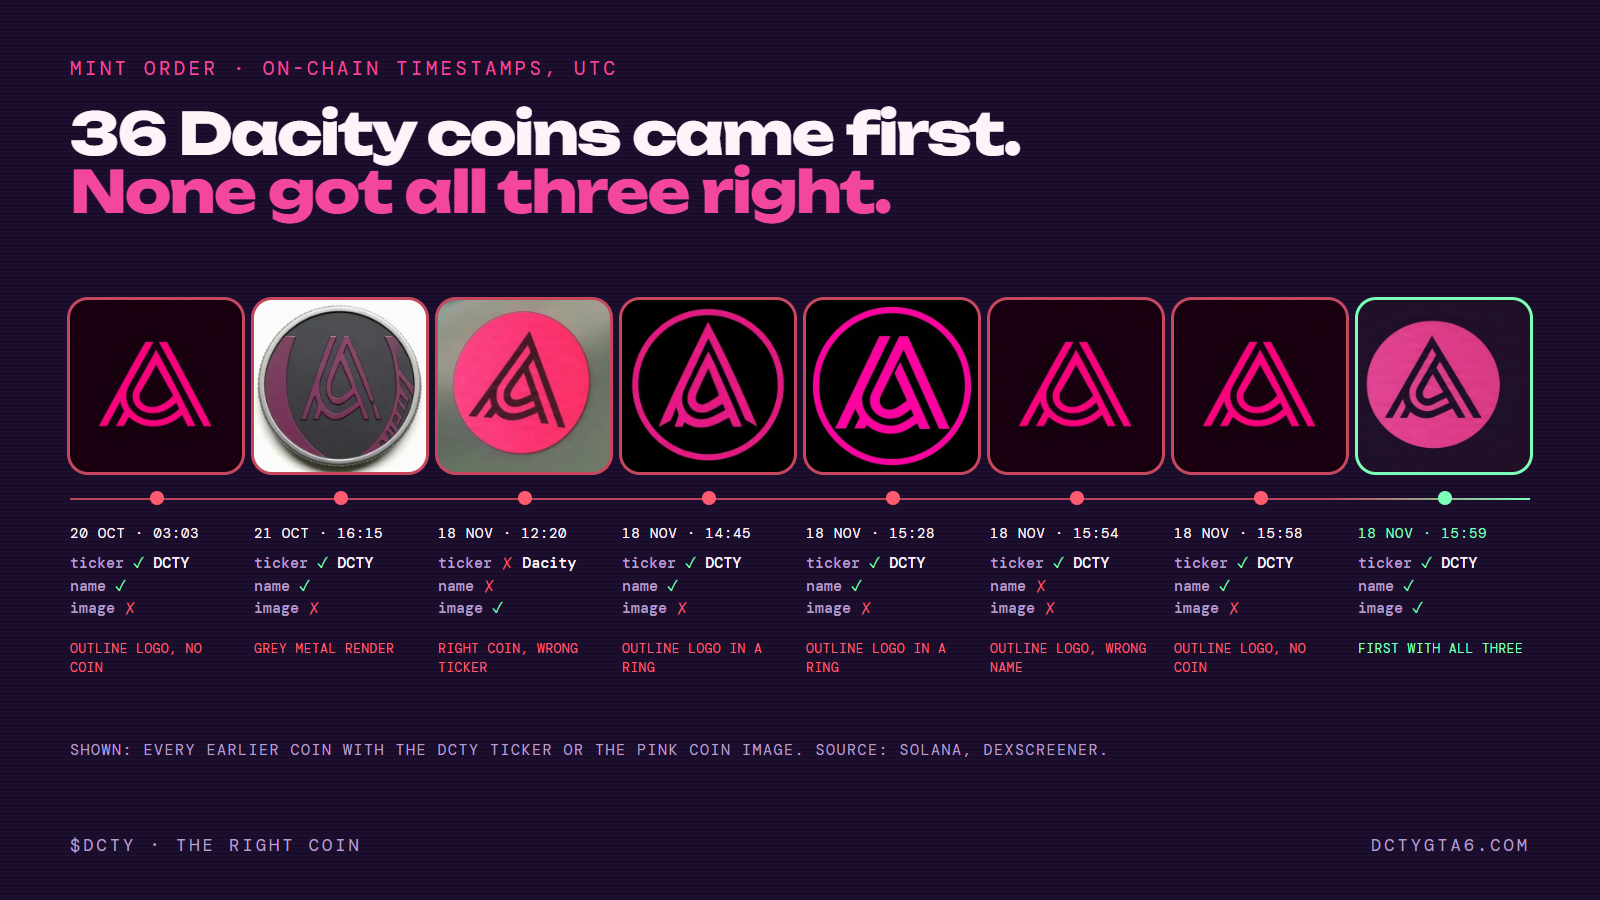
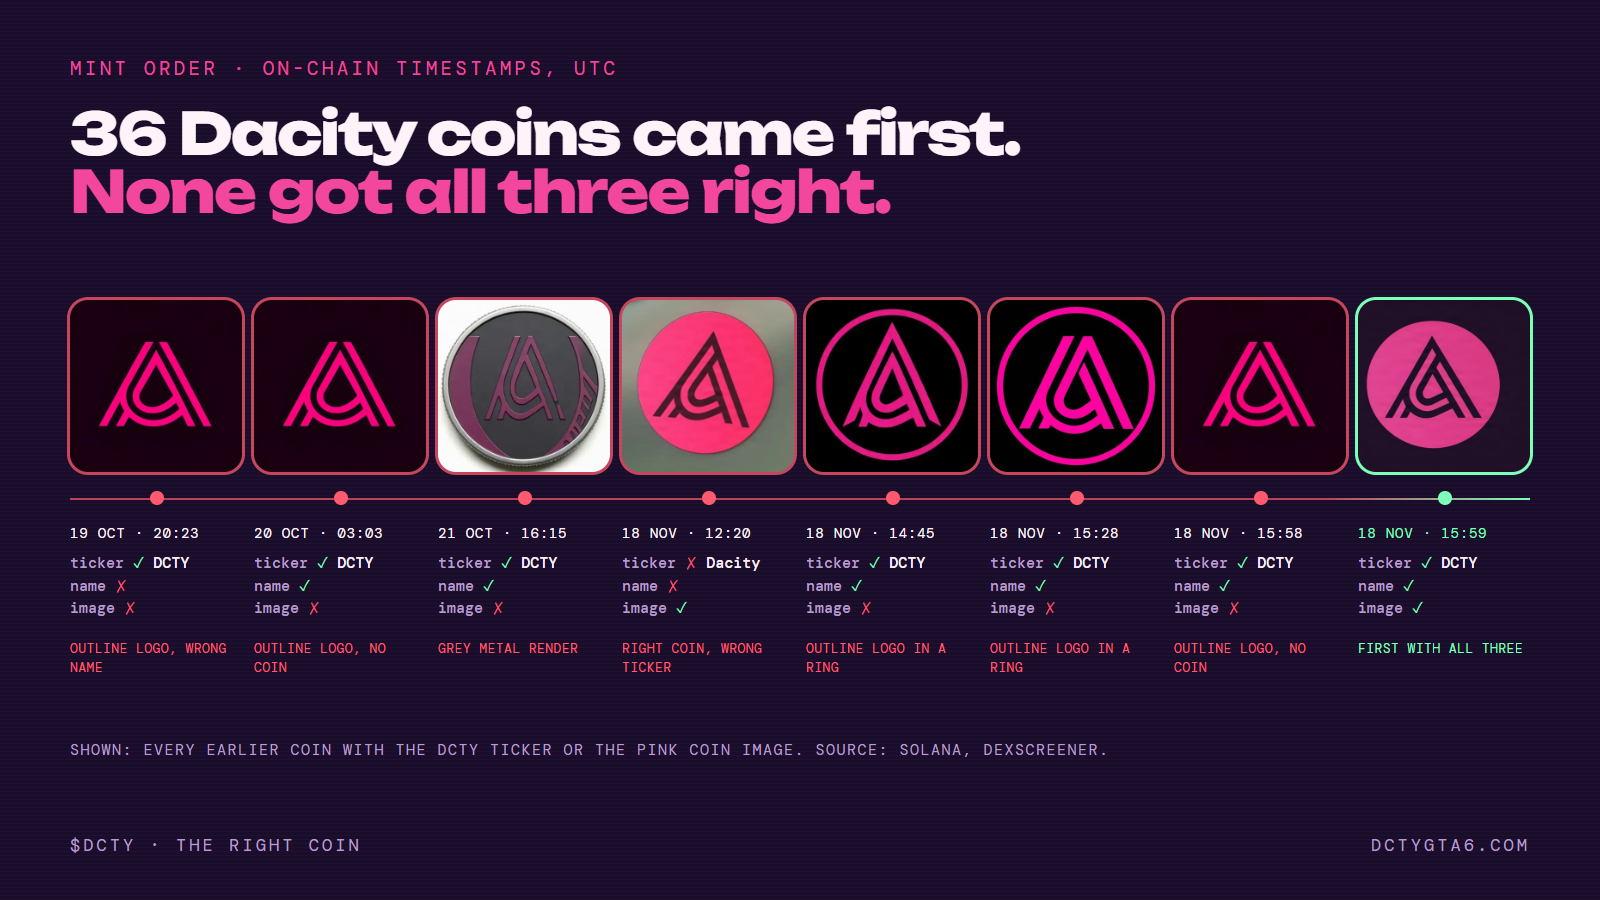
mint order: times read directly from Solana; copies at +28 s and +8 min

diff --git a/site/timeline.js b/site/timeline.js
@@ -1,1 +1,1 @@
-window.DCTY_TL = {"before":36,"rows":[{"a":"9hjBLBrc7WZW2H8UQvBAvG5WiTZotXUv2Bdcn4f4pump","time":1792465409000,"ticker":"DCTY","name":"DacityCoin","img":"others/9hjBLB.png","t":true,"n":true,"i":false,"what":"outline logo, no coin","short":"outline logo","me":false},{"a":"BQLQT9WT9UbqiZ4uxSaww9JPx6XD7W6mNfi65ncmpump","time":1792599306000,"ticker":"DCTY","name":"DacityCoin","img":"others/BQLQT9.png","t":true,"n":true,"i":false,"what":"grey metal render","short":"grey render","me":false},{"a":"ZAdX9J2Vpy14RDoSDHrNFxGcSQyQ6v7Mc5rqWaRpump","time":1795004405000,"ticker":"Dacity","name":"Dacitycoin","img":"others/ZAdX9J.png","t":false,"n":false,"i":true,"what":"right coin, wrong ticker","short":"the coin","me":false},{"a":"GgyKtbWS99pzkvqaG7wvxdKCbRxuLDLRDm4TtfDdpump","time":1795013105000,"ticker":"DCTY","name":"DacityCoin","img":"others/GgyKtb.png","t":true,"n":true,"i":false,"what":"outline logo in a ring","short":"ring logo","me":false},{"a":"2oK1KyeKEwDLv6UxfoemUXZHmwMDwYHRaBkTMLjwpump","time":1795015718000,"ticker":"DCTY","name":"DacityCoin","img":"others/2oK1Ky.png","t":true,"n":true,"i":false,"what":"outline logo in a ring","short":"ring logo","me":false},{"a":"Gakss2WZ9DMrEGQZRLHut4RBKVG3AxeXNg17kJKtpump","time":1795017256000,"ticker":"DCTY","name":"Dacity Coin","img":"others/Gakss2.png","t":true,"n":false,"i":false,"what":"outline logo, wrong name","short":"outline logo","me":false},{"a":"HWeKyuwNNmqkFm94Fd9uBFdyFdgnQi7ksc1emgzUpump","time":1795017496000,"ticker":"DCTY","name":"DacityCoin","img":"others/HWeKyu.png","t":true,"n":true,"i":false,"what":"outline logo, no coin","short":"outline logo","me":false},{"a":"6GTDzJNqDfJ7v4kpmbs4aupxQZnVwgRqTD4WFU7fpump","time":1795017585000,"ticker":"DCTY","name":"DacityCoin","img":"others/6GTDzJ.png","t":true,"n":true,"i":true,"what":"","short":"the coin","me":true}],"after":[{"a":"Fjoubg2YKS1qfc4sxRQaEH3odaCXQjGVizcDgW2Ppump","time":1795017651000,"ticker":"DCTY","name":"DacityCoin","img":"others/Fjoubg.png","t":true,"n":true,"i":true,"late":"66 sec"},{"a":"5qErNMKHiYvixh69V1aw8Dazzg6bvUN41ojcozUppump","time":1795018497000,"ticker":"DCTY","name":"DacityCoin","img":"others/5qErNM.png","t":true,"n":true,"i":true,"late":"15 min"}],"checked":"2026-11-19"};
+window.DCTY_TL = {"before":36,"rows":[{"a":"Gakss2WZ9DMrEGQZRLHut4RBKVG3AxeXNg17kJKtpump","time":1792441431000,"ticker":"DCTY","name":"Dacity Coin","img":"others/Gakss2.png","t":true,"n":false,"i":false,"what":"outline logo, wrong name","short":"outline logo","me":false},{"a":"9hjBLBrc7WZW2H8UQvBAvG5WiTZotXUv2Bdcn4f4pump","time":1792465409000,"ticker":"DCTY","name":"DacityCoin","img":"others/9hjBLB.png","t":true,"n":true,"i":false,"what":"outline logo, no coin","short":"outline logo","me":false},{"a":"BQLQT9WT9UbqiZ4uxSaww9JPx6XD7W6mNfi65ncmpump","time":1792599306000,"ticker":"DCTY","name":"DacityCoin","img":"others/BQLQT9.png","t":true,"n":true,"i":false,"what":"grey metal render","short":"grey render","me":false},{"a":"ZAdX9J2Vpy14RDoSDHrNFxGcSQyQ6v7Mc5rqWaRpump","time":1795004405000,"ticker":"Dacity","name":"Dacitycoin","img":"others/ZAdX9J.png","t":false,"n":false,"i":true,"what":"right coin, wrong ticker","short":"the coin","me":false},{"a":"GgyKtbWS99pzkvqaG7wvxdKCbRxuLDLRDm4TtfDdpump","time":1795013105000,"ticker":"DCTY","name":"DacityCoin","img":"others/GgyKtb.png","t":true,"n":true,"i":false,"what":"outline logo in a ring","short":"ring logo","me":false},{"a":"2oK1KyeKEwDLv6UxfoemUXZHmwMDwYHRaBkTMLjwpump","time":1795015718000,"ticker":"DCTY","name":"DacityCoin","img":"others/2oK1Ky.png","t":true,"n":true,"i":false,"what":"outline logo in a ring","short":"ring logo","me":false},{"a":"HWeKyuwNNmqkFm94Fd9uBFdyFdgnQi7ksc1emgzUpump","time":1795017496000,"ticker":"DCTY","name":"DacityCoin","img":"others/HWeKyu.png","t":true,"n":true,"i":false,"what":"outline logo, no coin","short":"outline logo","me":false},{"a":"6GTDzJNqDfJ7v4kpmbs4aupxQZnVwgRqTD4WFU7fpump","time":1795017585000,"ticker":"DCTY","name":"DacityCoin","img":"others/6GTDzJ.png","t":true,"n":true,"i":true,"what":"","short":"the coin","me":true}],"after":[{"a":"Fjoubg2YKS1qfc4sxRQaEH3odaCXQjGVizcDgW2Ppump","time":1795017613000,"ticker":"DCTY","name":"DacityCoin","img":"others/Fjoubg.png","t":true,"n":true,"i":true,"late":"28 sec"},{"a":"5qErNMKHiYvixh69V1aw8Dazzg6bvUN41ojcozUppump","time":1795018074000,"ticker":"DCTY","name":"DacityCoin","img":"others/5qErNM.png","t":true,"n":true,"i":true,"late":"8 min"}],"checked":"2026-11-19"};

diff --git a/brand/X-KIT.md b/brand/X-KIT.md
@@ -60,12 +60,12 @@ https://dctygta6.com#first
 $DCTY
 ```
 
-## Copies (180 chars) · dcty-g10-copies.png
+## Copies (179 chars) · dcty-g10-copies.png
 
 ```
-66 seconds after the mint, the first copy showed up with the same image.
+28 seconds after the mint, the first copy showed up with the same image.
 
-15 minutes later, another.
+8 minutes later, another.
 
 Copies only copy the one that got it right.
 
